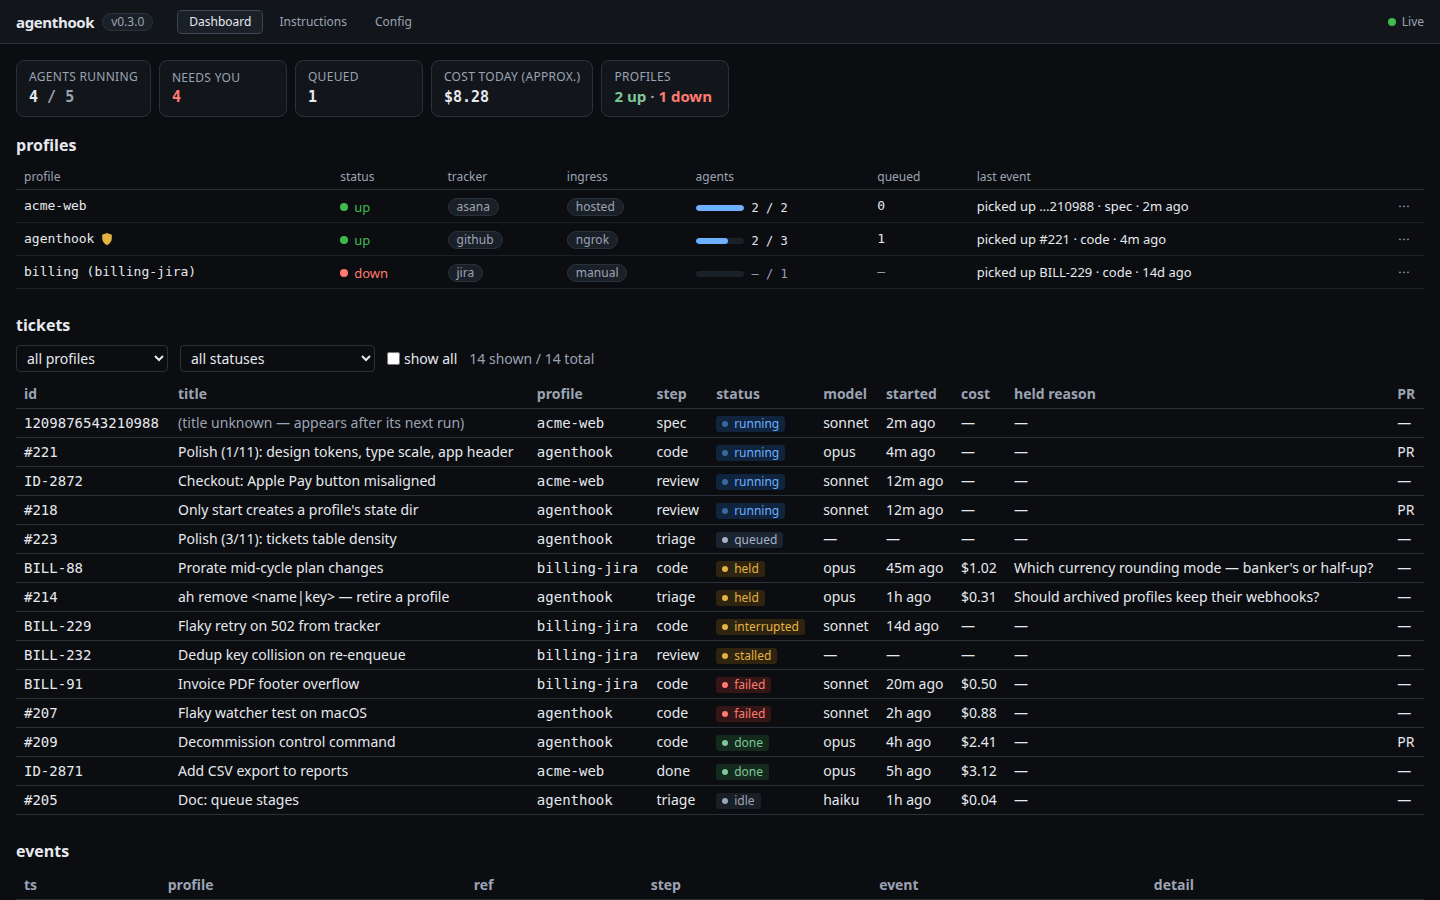
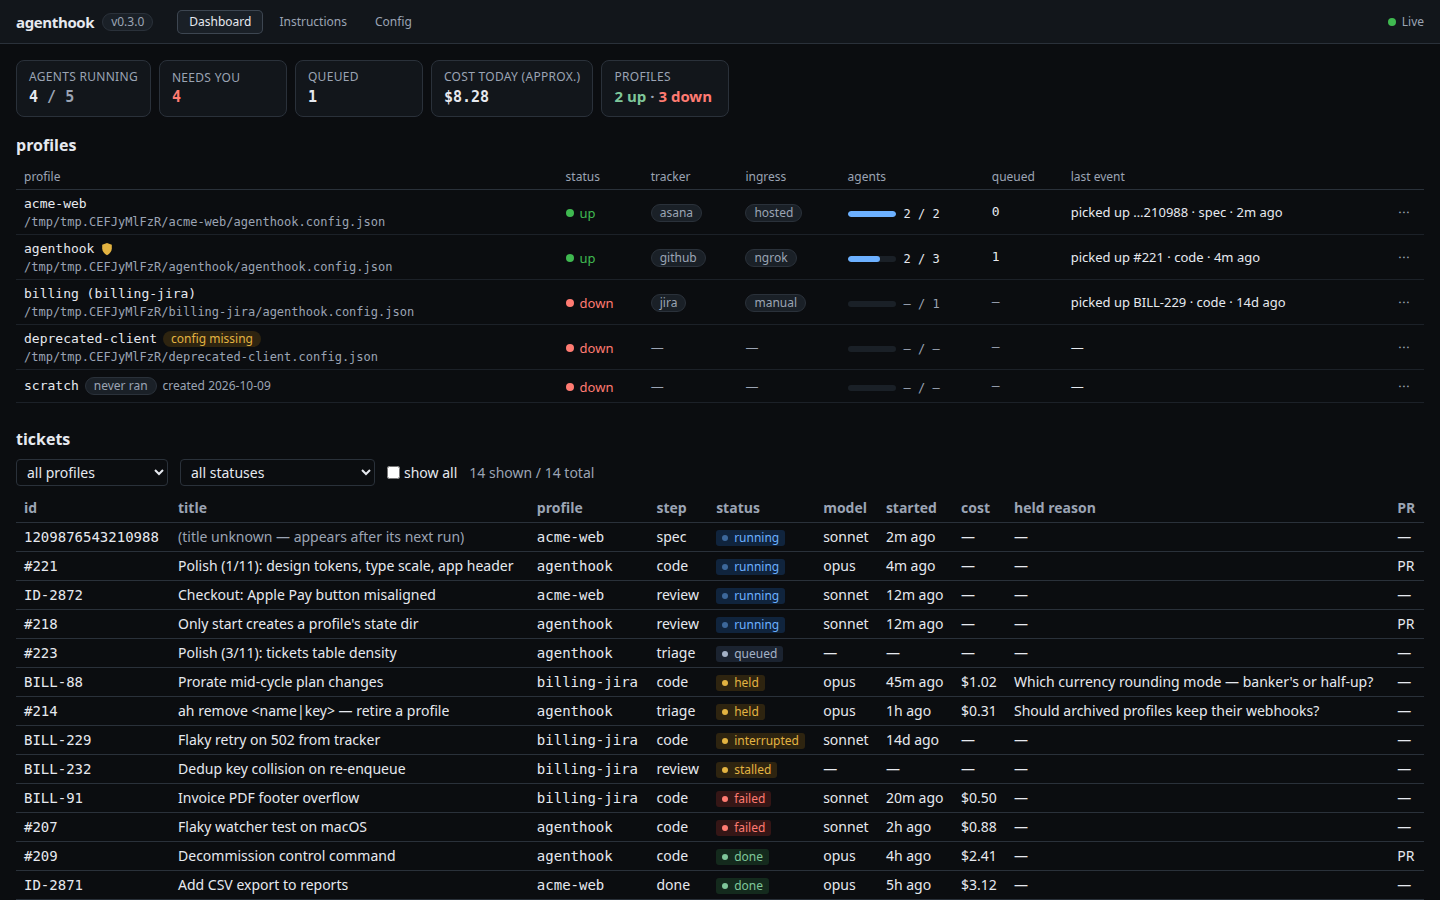
fix(ui): restore visible config path + ghost/config-missing badges
PR #241's redesign dropped #217/#219's always-visible config path and
ghost ("never ran" + created date) / config-missing badges, hiding them
behind a hover tooltip or removing them outright. Restore both under the
profile name in a new ProfileNameCell, and add a render test (App.test.tsx)
asserting the path text and both badges actually appear in markup so a
future layout change can't silently drop them again.

Also extends the ah-ui visual fixture with a ghost and a config-missing
profile so the screenshots exercise both badges.

Closes #224

diff --git a/ui/src/App.tsx b/ui/src/App.tsx
@@ -1,6 +1,6 @@
 import { Suspense, lazy, useEffect, useRef, useState } from "react";
 import type { ProfileView, Snapshot } from "./contract";
-import { formatUp, formatLastEvent, formatAgents, formatRelative, formatCost, profileLabel, profileBadge, ticketTitle } from "./format";
+import { formatUp, formatLastEvent, formatAgents, formatRelative, formatCost, formatDate, profileLabel, profileBadge, ticketTitle } from "./format";
 import { subscribe } from "./stream";
 import { applyEvent, clearRemovedProfile } from "./state";
 import { sortTickets, filterTickets, STATUS_ORDER } from "./tickets";
@@ -270,24 +270,13 @@ export default function App() {
         <tbody>
           {state.snapshot.profiles.map((p) => {
             const up = formatUp(p);
-            const badge = profileBadge(p);
             const pending = pendingRemoval[p.name] !== undefined;
             const displayId = p.lastEvent ? state.snapshot.tickets.find((t) => t.profile === p.name && t.ref === p.lastEvent?.ref)?.displayId ?? null : null;
             const lastEvent = formatLastEvent(p.lastEvent, displayId, now);
             return (
               <tr key={p.name} data-profile-row={p.name} className="border-b border-border-subtle">
                 <td className="px-2 py-1">
-                  <div className="flex items-center gap-1.5">
-                    <span className="font-mono" title={p.configPath ?? undefined}>
-                      {profileLabel(p)}
-                    </span>
-                    {p.fullAuto && <FullAutoShield />}
-                    {badge && (
-                      <Pill tone={badge.kind === "missing" ? "held" : "neutral"} title={badge.title}>
-                        {badge.text}
-                      </Pill>
-                    )}
-                  </div>
+                  <ProfileNameCell p={p} />
                 </td>
                 <td className="px-2 py-1">
                   <span title={up.title} className={`inline-flex items-center gap-1.5 ${p.up ? "text-success" : "text-status-failed"}`}>
@@ -510,6 +499,36 @@ function SummaryTile({ label, title, children }: { label: string; title?: string
       <div className="text-label uppercase tracking-wide text-muted">{label}</div>
       <div className="text-title font-semibold">{children}</div>
     </div>
+  );
+}
+
+/** A profile's name cell: label, fullAuto shield, ghost/config-missing badge, and the visible (tildified) config path. */
+export function ProfileNameCell({ p }: { p: ProfileView }) {
+  const badge = profileBadge(p);
+  return (
+    <>
+      <div className="flex items-center gap-1.5">
+        <span className="font-mono" title={p.configPath ?? undefined}>
+          {profileLabel(p)}
+        </span>
+        {p.fullAuto && <FullAutoShield />}
+        {badge && (
+          <Pill tone={badge.kind === "missing" ? "held" : "neutral"} title={badge.title}>
+            {badge.text}
+          </Pill>
+        )}
+        {badge?.kind === "ghost" && (
+          <span className="text-label text-muted" title={badge.title}>
+            created {formatDate(p.createdAt)}
+          </span>
+        )}
+      </div>
+      {p.configPath && (
+        <div className="font-mono text-label text-muted" title={p.configPath}>
+          {p.configPath}
+        </div>
+      )}
+    </>
   );
 }
 

diff --git a/ui/src/App.test.tsx b/ui/src/App.test.tsx
@@ -1,0 +1,48 @@
+import { describe, it, expect } from "vitest";
+import { createElement } from "react";
+import { renderToStaticMarkup } from "react-dom/server";
+import type { ProfileView } from "./contract";
+import { ProfileNameCell } from "./App";
+
+const base: ProfileView = {
+  name: "k",
+  label: "K",
+  up: true,
+  pid: 1,
+  port: 4180,
+  tracker: "asana",
+  ingress: "ngrok",
+  fullAuto: false,
+  maxConcurrent: 2,
+  startedAt: null,
+  updatedAt: null,
+  active: 0,
+  queued: 0,
+  lastEvent: null,
+  configPath: "~/p/agenthook.config.json",
+  createdAt: "2026-04-05T12:00:00.000Z",
+  lastSeenAt: null,
+  ghost: false,
+  configMissing: false,
+  recentCosts: [],
+};
+
+describe("ProfileNameCell", () => {
+  it("shows the config path visibly, not just in a tooltip", () => {
+    const html = renderToStaticMarkup(createElement(ProfileNameCell, { p: base }));
+    expect(html).toContain("~/p/agenthook.config.json");
+    // visible text, not only the name's title attribute
+    expect(html).toContain('<div class="font-mono text-label text-muted" title="~/p/agenthook.config.json">~/p/agenthook.config.json</div>');
+  });
+
+  it("shows the never-ran badge with its created date for a ghost profile", () => {
+    const html = renderToStaticMarkup(createElement(ProfileNameCell, { p: { ...base, ghost: true, configPath: null } }));
+    expect(html).toContain("never ran");
+    expect(html).toContain("created 2026-04-05");
+  });
+
+  it("shows the config-missing badge for a profile whose config file is gone", () => {
+    const html = renderToStaticMarkup(createElement(ProfileNameCell, { p: { ...base, configMissing: true } }));
+    expect(html).toContain("config missing");
+  });
+});

diff --git a/test/fixtures/ui/seed.js b/test/fixtures/ui/seed.js
@@ -207,4 +207,21 @@ for (const f of fixtures) {
   }
 }
 
-console.log(`seeded ${fixtures.length} profiles under ${path.resolve(root)}`);
+// A ghost: nothing but an empty logs/ — some command read a config named "scratch" and never ran
+// (isFreshStateDir in src/profile.js). No heartbeat.json, no profile.json, no server.pid.
+const ghostDir = path.join(root, "scratch");
+fs.mkdirSync(path.join(ghostDir, "logs"), { recursive: true });
+
+// A down profile whose owning config file has since been deleted (profileMeta's configMissing).
+const missingDir = path.join(root, "deprecated-client");
+fs.mkdirSync(path.join(missingDir, "logs"), { recursive: true });
+const missingConfigPath = path.join(path.resolve(root), "deprecated-client.config.json");
+fs.writeFileSync(path.join(missingDir, "profile.json"), JSON.stringify({ configPath: missingConfigPath, stateKey: "deprecated-client", name: "deprecated-client", createdAt: ago(60 * 24 * 90), updatedAt: ago(60 * 24 * 60) }));
+fs.writeFileSync(path.join(missingDir, "running.json"), "{}");
+fs.writeFileSync(path.join(missingDir, "queue.json"), "[]");
+fs.writeFileSync(path.join(missingDir, "held.json"), "{}");
+fs.writeFileSync(path.join(missingDir, "refmeta.json"), "{}");
+fs.writeFileSync(path.join(missingDir, "events.jsonl"), "");
+// configMissing requires the file be gone — never write missingConfigPath.
+
+console.log(`seeded ${fixtures.length + 2} profiles under ${path.resolve(root)}`);
